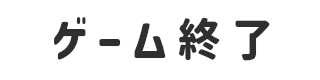
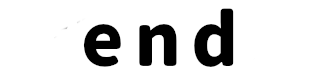
エフェクト(弾痕)

Changed region(s): [[0.4062, 0.1, 0.8438, 0.85], [0.1562, 0.2, 0.375, 0.85]]

diff --git a/DirectXGame/TitleScene.cpp b/DirectXGame/TitleScene.cpp
@@ -23,6 +23,11 @@ void TitleScene::Initialize() {
     };
 	endBoxSprite = Sprite::Create(endBoxGH, endBox.pos, endBox.color, {0.5f, 0.5f}, 0, 0);
 
+	hit = new Hit();
+
+	isHit = false;
+	isHitE = false;
+
 	cursor.SetResource(cursorGH, {0.0f, 0.0f});
 }
 
@@ -30,11 +35,19 @@ void TitleScene::Update() {
 	Vector2 BoxPos = startBoxSprite->GetPosition();
 	Vector2 endBoxPos = endBoxSprite->GetPosition();
 
+	if (!isHit && !isHitE) {
+		if (cursor.TriggerLeft()) {
+			hit->Initialize(cursor.GetPos());
+		}
+	}
+
 	if (cursor.GetPos().x >= BoxPos.x - 160.0f && cursor.GetPos().x <= BoxPos.x + 160.0f) {
 		if (cursor.GetPos().y >= BoxPos.y - 40.0f && cursor.GetPos().y <= BoxPos.y + 40.0f) {
 			startColor = {1.0f, 0.0f, 0.0f, 1.0f};
 			if (cursor.TriggerLeft()) {
-				isFinished_ = true;
+				if (!isHitE) {
+					isHit = true;
+				}
 			}
 		} else {
 			startColor = {1.0f, 1.0f, 1.0f, 1.0f};
@@ -47,7 +60,9 @@ void TitleScene::Update() {
 		if (cursor.GetPos().y >= endBoxPos.y - 40.0f && cursor.GetPos().y <= endBoxPos.y + 40.0f) {
 			endColor = {1.0f, 0.0f, 0.0f, 1.0f};
 			if (cursor.TriggerLeft()) {
-				isEscaped_ = true;
+				if (!isHit) {
+					isHitE = true;
+				}
 			}
 		} else {
 			endColor = {1.0f, 1.0f, 1.0f, 1.0f};
@@ -55,6 +70,15 @@ void TitleScene::Update() {
 	} else {
 		endColor = {1.0f, 1.0f, 1.0f, 1.0f};
 	}
+
+	if (isHit && !hit->IsHit()) {
+		isFinished_ = true;
+	}
+	if (isHitE && !hit->IsHit()) {
+		isEscaped_ = true;
+	}
+
+	hit->Update();
 
 	startBoxSprite->SetColor(startColor);
 	endBoxSprite->SetColor(endColor);
@@ -79,6 +103,8 @@ void TitleScene::Draw() {
 	startBoxSprite->Draw();
 
 	endBoxSprite->Draw();
+
+	hit->Draw();
 
 	cursor.Draw();
 

diff --git a/DirectXGame/Hit.h b/DirectXGame/Hit.h
@@ -1,0 +1,26 @@
+#pragma once
+#include "KamataEngine.h"
+
+using namespace KamataEngine;
+
+class Hit {
+public:
+	void Initialize(Vector2 position);
+
+	void Update();
+
+	void Draw();
+
+	bool IsHit() { return isHit; }
+
+private:
+	Vector2 pos{};
+
+	Sprite* sprite = nullptr;
+
+	uint32_t hitGH = TextureManager::Load("./Resources/hit.png");
+
+	int timer;
+
+	bool isHit = false;
+};

diff --git a/DirectXGame/Hit.cpp b/DirectXGame/Hit.cpp
@@ -1,0 +1,21 @@
+#include "Hit.h"
+
+void Hit::Initialize(Vector2 position) {
+	pos = position;
+	isHit = true;
+	timer = 60;
+	sprite = Sprite::Create(hitGH, pos, {1.0f, 1.0f, 1.0f, 1.0f}, {0.5f, 0.5f}, 0, 0);
+}
+
+void Hit::Update() {
+	timer--;
+	if (timer <= 0) {
+		isHit = false;
+	}
+}
+
+void Hit::Draw() {
+	if (isHit) {
+		sprite->Draw();
+	}
+}

diff --git a/DirectXGame/TitleScene.h b/DirectXGame/TitleScene.h
@@ -1,6 +1,7 @@
 #pragma once
 #include "Cursor.h"
 #include "KamataEngine.h"
+#include "Hit.h"
 
 using namespace KamataEngine;
 
@@ -47,4 +48,8 @@ private:
 
 	Cursor cursor;
 	uint32_t cursorGH = TextureManager::Load("./Resources/cursor.png");
+
+	Hit* hit = nullptr;
+	bool isHit = false;
+	bool isHitE = false;
 };

diff --git a/DirectXGame/Particle.h b/DirectXGame/Particle.h
@@ -1,0 +1,14 @@
+#pragma once
+class Particle {
+private:
+	// 初期化
+	void Initialize();
+
+	// 更新
+	void Update();
+
+	// 描画
+	void Draw();
+
+public:
+};

diff --git a/DirectXGame/Particle.cpp b/DirectXGame/Particle.cpp
@@ -1,0 +1,13 @@
+#include "Particle.h"
+
+void Particle::Initialize() {
+
+}
+
+void Particle::Update() {
+
+}
+
+void Particle::Draw() {
+
+}
